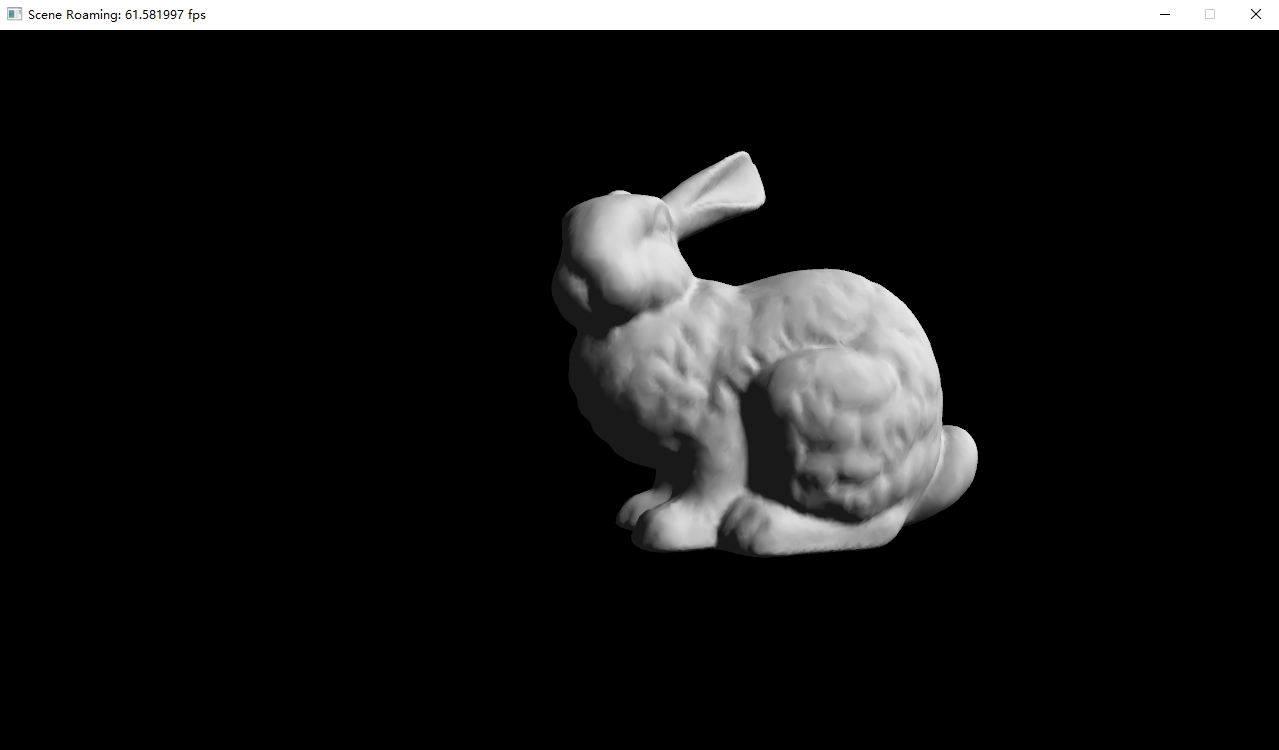
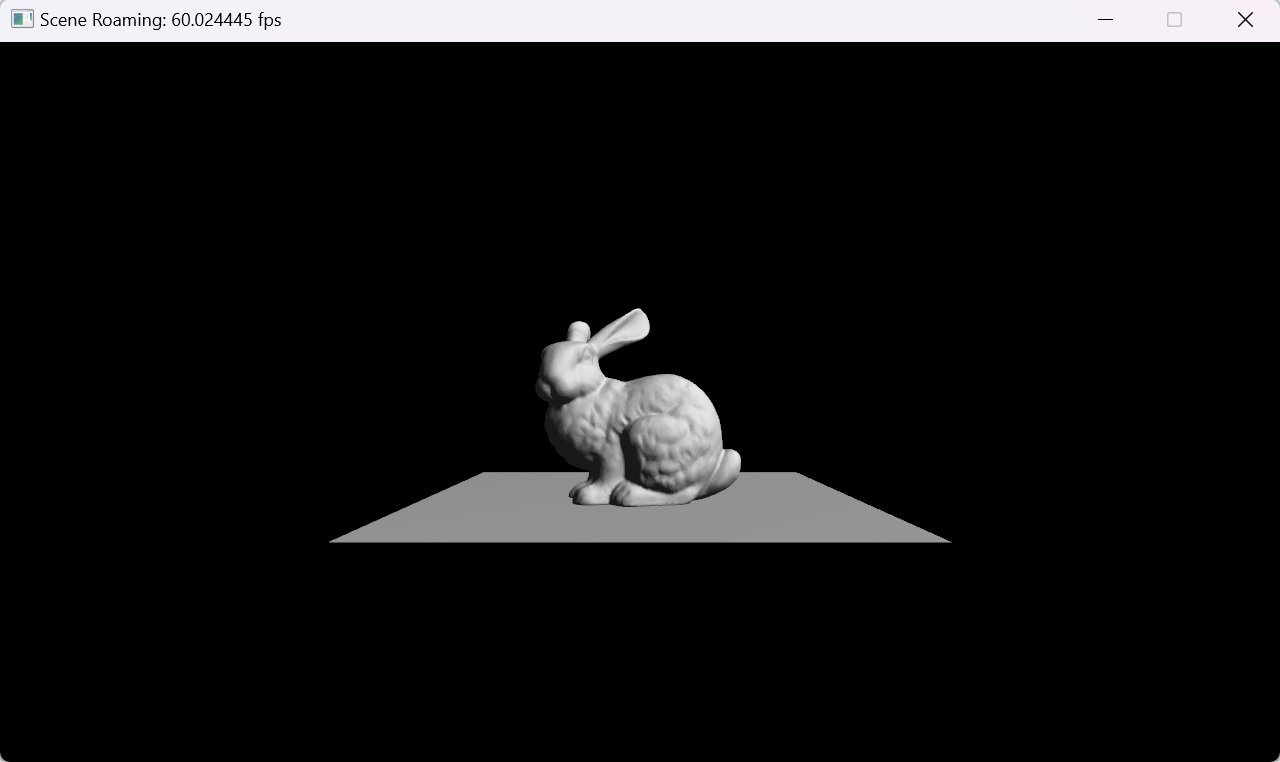
Add the bottom plane for project3

Changed region(s): [[0.2439, 0.184, 0.7623, 0.7667], [0.0, 0.0, 1.0, 0.0613]]

diff --git a/projects/project3/scene_roaming.cpp b/projects/project3/scene_roaming.cpp
@@ -28,6 +28,17 @@ SceneRoaming::SceneRoaming(const Options& options) : Application(options) {
     // init model
     _bunny.reset(new Model(getAssetFullPath(modelRelPath)));
 
+    std::vector<Vertex> vertices{
+        //         position         |        normal        |   texcoord
+        { { -5.0f, 0.0f, -5.0f }, { 0.0f, 1.0f, 0.0f }, { 0.0f, 0.0f } },
+        { {  5.0f, 0.0f, -5.0f }, { 0.0f, 1.0f, 0.0f }, { 1.0f, 0.0f } },
+        { {  5.0f, 0.0f,  5.0f }, { 0.0f, 1.0f, 0.0f }, { 1.0f, 1.0f } },
+        { { -5.0f, 0.0f,  5.0f }, { 0.0f, 1.0f, 0.0f }, { 0.0f, 1.0f } }
+    };
+    std::vector<uint32_t> indices{ 0, 2, 1, 0, 3, 2 };
+
+    _ground.reset(new Model(vertices, indices));
+
     // init shader
     initShader();
 }
@@ -128,6 +139,9 @@ void SceneRoaming::renderFrame() {
     _shader->setUniformMat4("model", _bunny->transform.getLocalMatrix());
 
     _bunny->draw();
+
+    _shader->setUniformMat4("model", glm::translate(glm::mat4(1.0f), glm::vec3(0, -2.25, 0)));
+    _ground->draw();
 }
 
 void SceneRoaming::initShader() {

diff --git a/projects/base/model.cpp b/projects/base/model.cpp
@@ -121,6 +121,19 @@ Model::~Model() {
     cleanup();
 }
 
+Model& Model::operator=(Model&& rhs) noexcept {
+    if (this != &rhs) {
+        std::swap(_vao, rhs._vao);
+        std::swap(_vbo, rhs._vbo);
+        std::swap(_ebo, rhs._ebo);
+        std::swap(_boxVao, rhs._boxVao);
+        std::swap(_boxVbo, rhs._boxVbo);
+        std::swap(_boxEbo, rhs._boxEbo);
+    }
+
+    return *this;
+}
+
 BoundingBox Model::getBoundingBox() const {
     return _boundingBox;
 }

diff --git a/projects/base/model.h b/projects/base/model.h
@@ -18,6 +18,10 @@ public:
 
     virtual ~Model();
 
+    Model& operator=(const Model& rhs) = delete;
+
+    Model& operator=(Model&& rhs) noexcept;
+
     GLuint getVao() const;
 
     GLuint getBoundingBoxVao() const;

diff --git a/projects/project3/scene_roaming.h b/projects/project3/scene_roaming.h
@@ -23,6 +23,7 @@ private:
     int activeCameraIndex = 0;
 
     std::unique_ptr<Model> _bunny;
+    std::unique_ptr<Model> _ground;
 
     std::unique_ptr<GLSLProgram> _shader;
 

diff --git a/projects/project2/bunny.h b/projects/project2/bunny.h
@@ -2,8 +2,6 @@
 
 #include <vector>
 
-#include <glm/glm.hpp>
-
 #include "../base/gl_utility.h"
 #include "../base/vertex.h"
 
